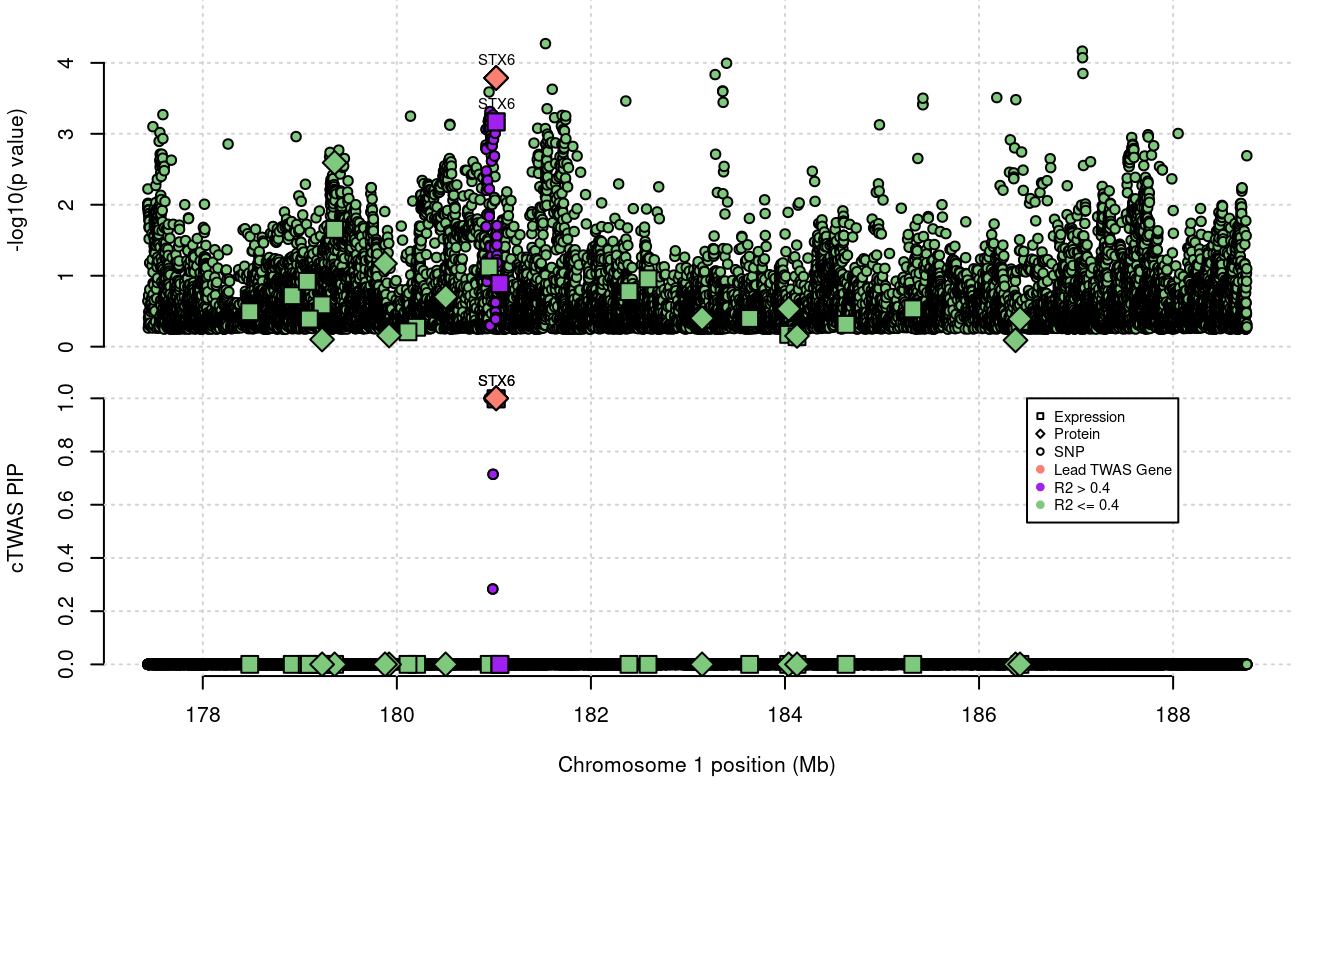
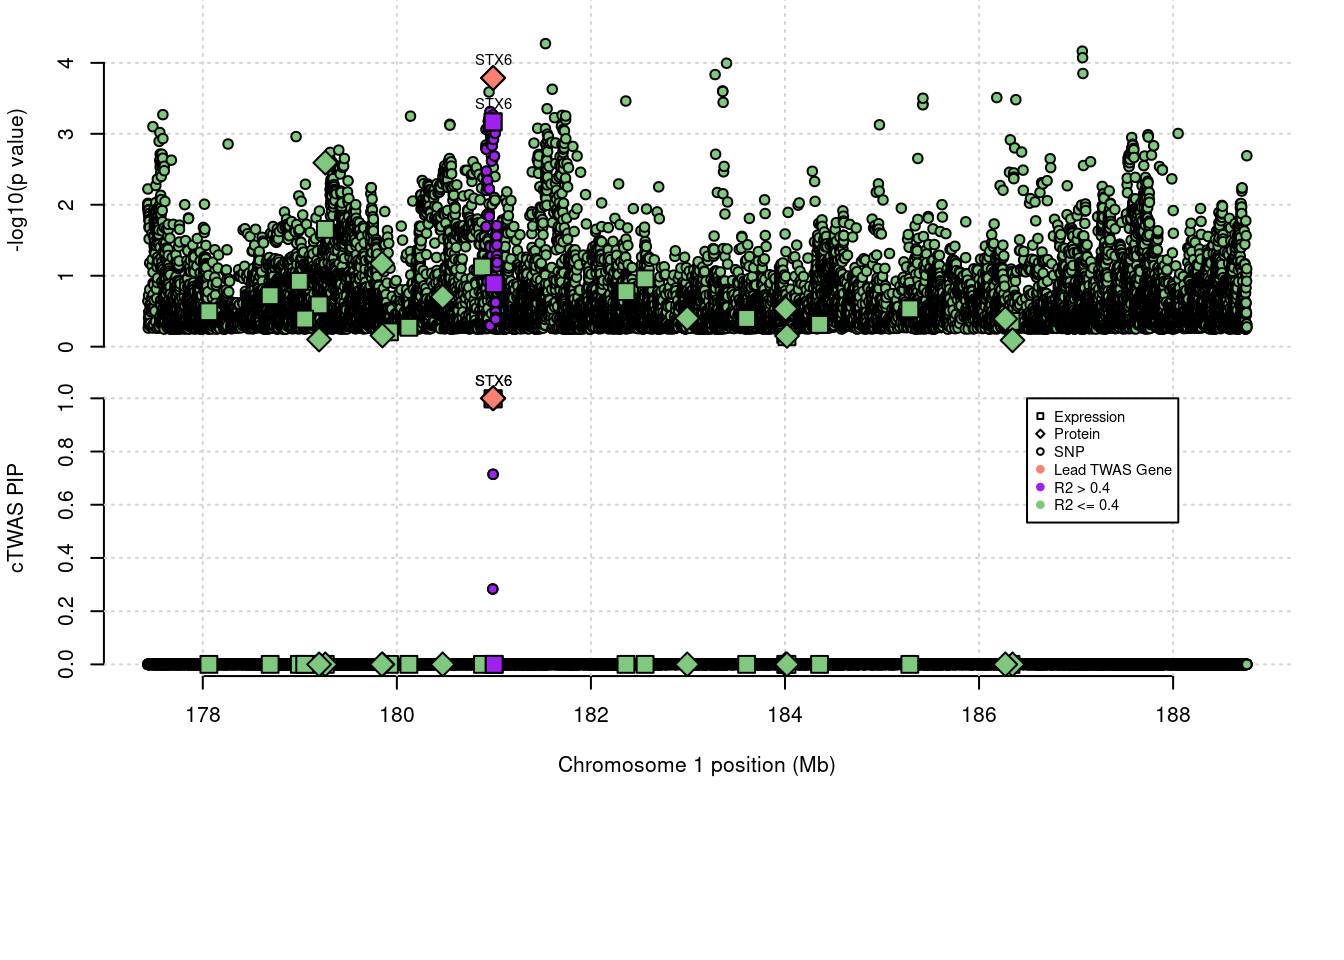
update

diff --git a/docs/joint_epqtl_jasen_ukbb_twostep_rerun_ldmerget.html b/docs/joint_epqtl_jasen_ukbb_twostep_rerun_ldmerget.html
@@ -381,7 +381,7 @@ step setting, fixed, GWAS:shwarz, LD:ukbb, LD merge = T)</h1>
 <p>
 <button type="button" class="btn btn-default btn-workflowr btn-workflowr-report" data-toggle="collapse" data-target="#workflowr-report">
 <span class="glyphicon glyphicon-list" aria-hidden="true"></span>
-workflowr <span class="glyphicon glyphicon-ok text-success"
+workflowr <span class="glyphicon glyphicon-exclamation-sign text-danger"
 aria-hidden="true"></span>
 </button>
 </p>
@@ -392,8 +392,8 @@ aria-hidden="true"></span>
 </li>
 <li>
 <a data-toggle="tab" href="#checks"> Checks <span
-class="glyphicon glyphicon-ok text-success" aria-hidden="true"></span>
-</a>
+class="glyphicon glyphicon-exclamation-sign text-danger"
+aria-hidden="true"></span> </a>
 </li>
 <li>
 <a data-toggle="tab" href="#versions">Past versions</a>
@@ -406,9 +406,9 @@ class="glyphicon glyphicon-ok text-success" aria-hidden="true"></span>
 </p>
 <p>
 <strong>Checks:</strong> <span
-class="glyphicon glyphicon-ok text-success" aria-hidden="true"></span> 7
+class="glyphicon glyphicon-ok text-success" aria-hidden="true"></span> 6
 <span class="glyphicon glyphicon-exclamation-sign text-danger"
-aria-hidden="true"></span> 0
+aria-hidden="true"></span> 1
 </p>
 <p>
 <strong>Knit directory:</strong> <code>proteome_alzheimer/</code> <span
@@ -431,18 +431,21 @@ versions</em> tab lists the development history.
 <div class="panel panel-default">
 <div class="panel-heading">
 <p class="panel-title">
-<a data-toggle="collapse" data-parent="#workflowr-checks" href="#strongRMarkdownfilestronguptodate">
-<span class="glyphicon glyphicon-ok text-success"
-aria-hidden="true"></span> <strong>R Markdown file:</strong> up-to-date
-</a>
+<a data-toggle="collapse" data-parent="#workflowr-checks" href="#strongRMarkdownfilestronguncommittedchanges">
+<span class="glyphicon glyphicon-exclamation-sign text-danger"
+aria-hidden="true"></span> <strong>R Markdown file:</strong> uncommitted
+changes </a>
 </p>
 </div>
-<div id="strongRMarkdownfilestronguptodate"
+<div id="strongRMarkdownfilestronguncommittedchanges"
 class="panel-collapse collapse">
 <div class="panel-body">
-<p>Great! Since the R Markdown file has been committed to the Git
-repository, you know the exact version of the code that produced these
-results.</p>
+<p>The R Markdown file has unstaged changes. To know which version of
+the R Markdown file created these results, you’ll want to first commit
+it to the Git repo. If you’re still working on the analysis, you can
+ignore this warning. When you’re finished, you can run
+<code>wflow_publish</code> to commit the R Markdown file and build the
+HTML.</p>
 </div>
 </div>
 </div>
@@ -533,15 +536,15 @@ project makes it easier to run your code on other machines.</p>
 <div class="panel panel-default">
 <div class="panel-heading">
 <p class="panel-title">
-<a data-toggle="collapse" data-parent="#workflowr-checks" href="#strongRepositoryversionstrongahrefhttpsgithubcomxsun1229proteomealzheimertree225897086d11318091c63fe3d0fc9a0b6347d99ftargetblank2258970a">
+<a data-toggle="collapse" data-parent="#workflowr-checks" href="#strongRepositoryversionstrongahrefhttpsgithubcomxsun1229proteomealzheimertree56ec2028a8724318a492eeb19e3e75a5ace728f7targetblank56ec202a">
 <span class="glyphicon glyphicon-ok text-success"
 aria-hidden="true"></span> <strong>Repository version:</strong>
-<a href="https://github.com/xsun1229/proteome_alzheimer/tree/225897086d11318091c63fe3d0fc9a0b6347d99f" target="_blank">2258970</a>
+<a href="https://github.com/xsun1229/proteome_alzheimer/tree/56ec2028a8724318a492eeb19e3e75a5ace728f7" target="_blank">56ec202</a>
 </a>
 </p>
 </div>
 <div
[2 lines of base64/hex data omitted]
 class="panel-collapse collapse">
 <div class="panel-body">
 <p>
@@ -551,7 +554,7 @@ reproducibility.
 </p>
 <p>
 The results in this page were generated with repository version
-<a href="https://github.com/xsun1229/proteome_alzheimer/tree/225897086d11318091c63fe3d0fc9a0b6347d99f" target="_blank">2258970</a>.
+<a href="https://github.com/xsun1229/proteome_alzheimer/tree/56ec2028a8724318a492eeb19e3e75a5ace728f7" target="_blank">56ec202</a>.
 See the <em>Past versions</em> tab to see a history of the changes made
 to the R Markdown and HTML files.
 </p>
@@ -567,7 +570,11 @@ were generated:
 <pre><code>
 Ignored files:
     Ignored:    .Rhistory
-    Ignored:    analysis/figure/
+
+Unstaged changes:
+    Modified:   analysis/brain_877_latest_ldukbb_fusion_remove.Rmd
+    Modified:   analysis/joint_epqtl_jasen_ukbb_twostep_rerun_ldmerget.Rmd
+    Modified:   analysis/joint_epqtl_shwarz_ukbb_twostep_rerun_ldmerget.Rmd
 
 </code></pre>
 <p>
@@ -615,6 +622,23 @@ Message
 </tr>
 </thead>
 <tbody>
+<tr>
+<td>
+html
+</td>
+<td>
+<a href="https://rawcdn.githack.com/xsun1229/proteome_alzheimer/56ec2028a8724318a492eeb19e3e75a5ace728f7/docs/joint_epqtl_jasen_ukbb_twostep_rerun_ldmerget.html" target="_blank">56ec202</a>
+</td>
+<td>
+XSun
+</td>
+<td>
+2023-10-25
+</td>
+<td>
+update
+</td>
+</tr>
 <tr>
 <td>
 Rmd
@@ -790,7 +814,7 @@ href="https://www.nature.com/articles/s41467-022-31873-5s">Wingo_Nat_comm_2022</
 <h2>Locus plots</h2>
 <pre class="r"><code>source(&quot;/project2/guiming/xsun/proteome_alzheimer/codes/locus_plot_joint.R&quot;)
 analysis_id &lt;- &quot;brain&quot;
-load(&quot;/project2/guiming/xsun/proteome_alzheimer/data_others/G_list_processed.RData&quot;)
+G_list &lt;- readRDS(&quot;/project2/guiming/xsun/proteome_alzheimer/data_others/G_list_hg19.Rd&quot;)
 alpha &lt;- 0.05</code></pre>
 <pre class="r"><code>a &lt;- locus_plot(region_tag=&quot;1_95&quot;, return_table=F,xlim=NULL,
                       focus=NULL,
@@ -802,16 +826,43 @@ alpha &lt;- 0.05</code></pre>
                       legend_panel=&quot;cTWAS&quot;,
                       draw_gene_track = F)</code></pre>
 <p><img src="figure/joint_epqtl_jasen_ukbb_twostep_rerun_ldmerget.Rmd/unnamed-chunk-10-1.png" width="672" style="display: block; margin: auto;" /></p>
-<pre class="r"><code>a &lt;- locus_plot(region_tag=&quot;17_40&quot;, return_table=F,xlim=NULL,
-                      focus=NULL,
-                      label_genes=NULL,
-                      rerun_ctwas=F,
-                      rerun_load_only=F,
-                      label_panel=&quot;both&quot;,
-                      legend_side=&quot;right&quot;,
-                      legend_panel=&quot;cTWAS&quot;,
-                      draw_gene_track = F)</code></pre>
-<p><img src="figure/joint_epqtl_jasen_ukbb_twostep_rerun_ldmerget.Rmd/unnamed-chunk-11-1.png" width="672" style="display: block; margin: auto;" /></p>
+<p>
+<button type="button" class="btn btn-default btn-xs btn-workflowr btn-workflowr-fig" data-toggle="collapse" data-target="#fig-unnamed-chunk-10-1">
+Past versions of unnamed-chunk-10-1.png
+</button>
+</p>
+<div id="fig-unnamed-chunk-10-1" class="collapse">
+<div class="table-responsive">
+<table class="table table-condensed table-hover">
+<thead>
+<tr>
+<th>
+Version
+</th>
+<th>
+Author
+</th>
+<th>
+Date
+</th>
+</tr>
+</thead>
+<tbody>
+<tr>
+<td>
+<a href="https://github.com/xsun1229/proteome_alzheimer/blob/56ec2028a8724318a492eeb19e3e75a5ace728f7/docs/figure/joint_epqtl_jasen_ukbb_twostep_rerun_ldmerget.Rmd/unnamed-chunk-10-1.png" target="_blank">56ec202</a>
+</td>
+<td>
+XSun
+</td>
+<td>
+2023-10-25
+</td>
+</tr>
+</tbody>
+</table>
+</div>
+</div>
 </div>
 </div>
 <div id="removing-the-top-locus" class="section level1">
@@ -827,7 +878,44 @@ options(digits = 4)</code></pre>
 <pre><code>[1] &quot;total number of snp in outputs: 1611522&quot;</code></pre>
 <div id="check-convergence-of-parameters-1" class="section level3">
 <h3>Check convergence of parameters</h3>
-<p><img src="figure/joint_epqtl_jasen_ukbb_twostep_rerun_ldmerget.Rmd/unnamed-chunk-14-1.png" width="70%" style="display: block; margin: auto;" /></p>
+<p><img src="figure/joint_epqtl_jasen_ukbb_twostep_rerun_ldmerget.Rmd/unnamed-chunk-13-1.png" width="70%" style="display: block; margin: auto;" /></p>
+<p>
+<button type="button" class="btn btn-default btn-xs btn-workflowr btn-workflowr-fig" data-toggle="collapse" data-target="#fig-unnamed-chunk-13-1">
+Past versions of unnamed-chunk-13-1.png
+</button>
+</p>
+<div id="fig-unnamed-chunk-13-1" class="collapse">
+<div class="table-responsive">
+<table class="table table-condensed table-hover">
+<thead>
+<tr>
+<th>
+Version
+</th>
+<th>
+Author
+</th>
+<th>
+Date
+</th>
+</tr>
+</thead>
+<tbody>
+<tr>
+<td>
+<a href="https://github.com/xsun1229/proteome_alzheimer/blob/4befeb0be2652117ae756a037df680122581b5a1/docs/figure/joint_epqtl_jasen_ukbb_twostep_rerun_ldmerget.Rmd/unnamed-chunk-13-1.png" target="_blank">4befeb0</a>
+</td>
+<td>
+XSun
+</td>
+<td>
+2023-10-23
+</td>
+</tr>
+</tbody>
+</table>
+</div>
+</div>
 <pre class="r"><code>#estimated group prior
 estimated_group_prior &lt;- estimated_group_prior_all[,ncol(group_prior_rec)]
 print(estimated_group_prior)</code></pre>
@@ -911,7 +999,7 @@ href="https://www.nature.com/articles/s41467-022-31873-5s">Wingo_Nat_comm_2022</
 <h2>Locus plots</h2>
 <pre class="r"><code>source(&quot;/project2/guiming/xsun/proteome_alzheimer/codes/locus_plot_joint.R&quot;)
 analysis_id &lt;- &quot;brain&quot;
-load(&quot;/project2/guiming/xsun/proteome_alzheimer/data_others/G_list_processed.RData&quot;)
+G_list &lt;- readRDS(&quot;/project2/guiming/xsun/proteome_alzheimer/data_others/G_list_hg19.Rd&quot;)
 alpha &lt;- 0.05</code></pre>
 <pre class="r"><code>a &lt;- locus_plot(region_tag=&quot;1_95&quot;, return_table=F,xlim=NULL,
                       focus=NULL,
@@ -922,7 +1010,7 @@ alpha &lt;- 0.05</code></pre>
                       legend_side=&quot;right&quot;,
                       legend_panel=&quot;cTWAS&quot;,
                       draw_gene_track = F)</code></pre>
-<p><img src="figure/joint_epqtl_jasen_ukbb_twostep_rerun_ldmerget.Rmd/unnamed-chunk-21-1.png" width="672" style="display: block; margin: auto;" /></p>
+<p><img src="figure/joint_epqtl_jasen_ukbb_twostep_rerun_ldmerget.Rmd/unnamed-chunk-20-1.png" width="672" style="display: block; margin: auto;" /></p>
 <pre class="r"><code>a &lt;- locus_plot(region_tag=&quot;2_76&quot;, return_table=F,xlim=NULL,
                       focus=NULL,
                       label_genes=NULL,
@@ -932,7 +1020,44 @@ alpha &lt;- 0.05</code></pre>
                       legend_side=&quot;right&quot;,
                       legend_panel=&quot;cTWAS&quot;,
                       draw_gene_track = F)</code></pre>
-<p><img src="figure/joint_epqtl_jasen_ukbb_twostep_rerun_ldmerget.Rmd/unnamed-chunk-22-1.png" width="672" style="display: block; margin: auto;" /></p>
+<p><img src="figure/joint_epqtl_jasen_ukbb_twostep_rerun_ldmerget.Rmd/unnamed-chunk-21-1.png" width="672" style="display: block; margin: auto;" /></p>
+<p>
+<button type="button" class="btn btn-default btn-xs btn-workflowr btn-workflowr-fig" data-toggle="collapse" data-target="#fig-unnamed-chunk-21-1">
+Past versions of unnamed-chunk-21-1.png
+</button>
+</p>
+<div id="fig-unnamed-chunk-21-1" class="collapse">
+<div class="table-responsive">
+<table class="table table-condensed table-hover">
+<thead>
+<tr>
+<th>
+Version
+</th>
+<th>
+Author
+</th>
+<th>
+Date
+</th>
+</tr>
+</thead>
+<tbody>
+<tr>
+<td>
+<a href="https://github.com/xsun1229/proteome_alzheimer/blob/56ec2028a8724318a492eeb19e3e75a5ace728f7/docs/figure/joint_epqtl_jasen_ukbb_twostep_rerun_ldmerget.Rmd/unnamed-chunk-21-1.png" target="_blank">56ec202</a>
+</td>
+<td>
+XSun
+</td>
+<td>
+2023-10-25
+</td>
+</tr>
+</tbody>
+</table>
+</div>
+</div>
 <br>
 <p>
 <button type="button" class="btn btn-default btn-workflowr btn-workflowr-sessioninfo" data-toggle="collapse" data-target="#workflowr-sessioninfo" style="display: block;">
